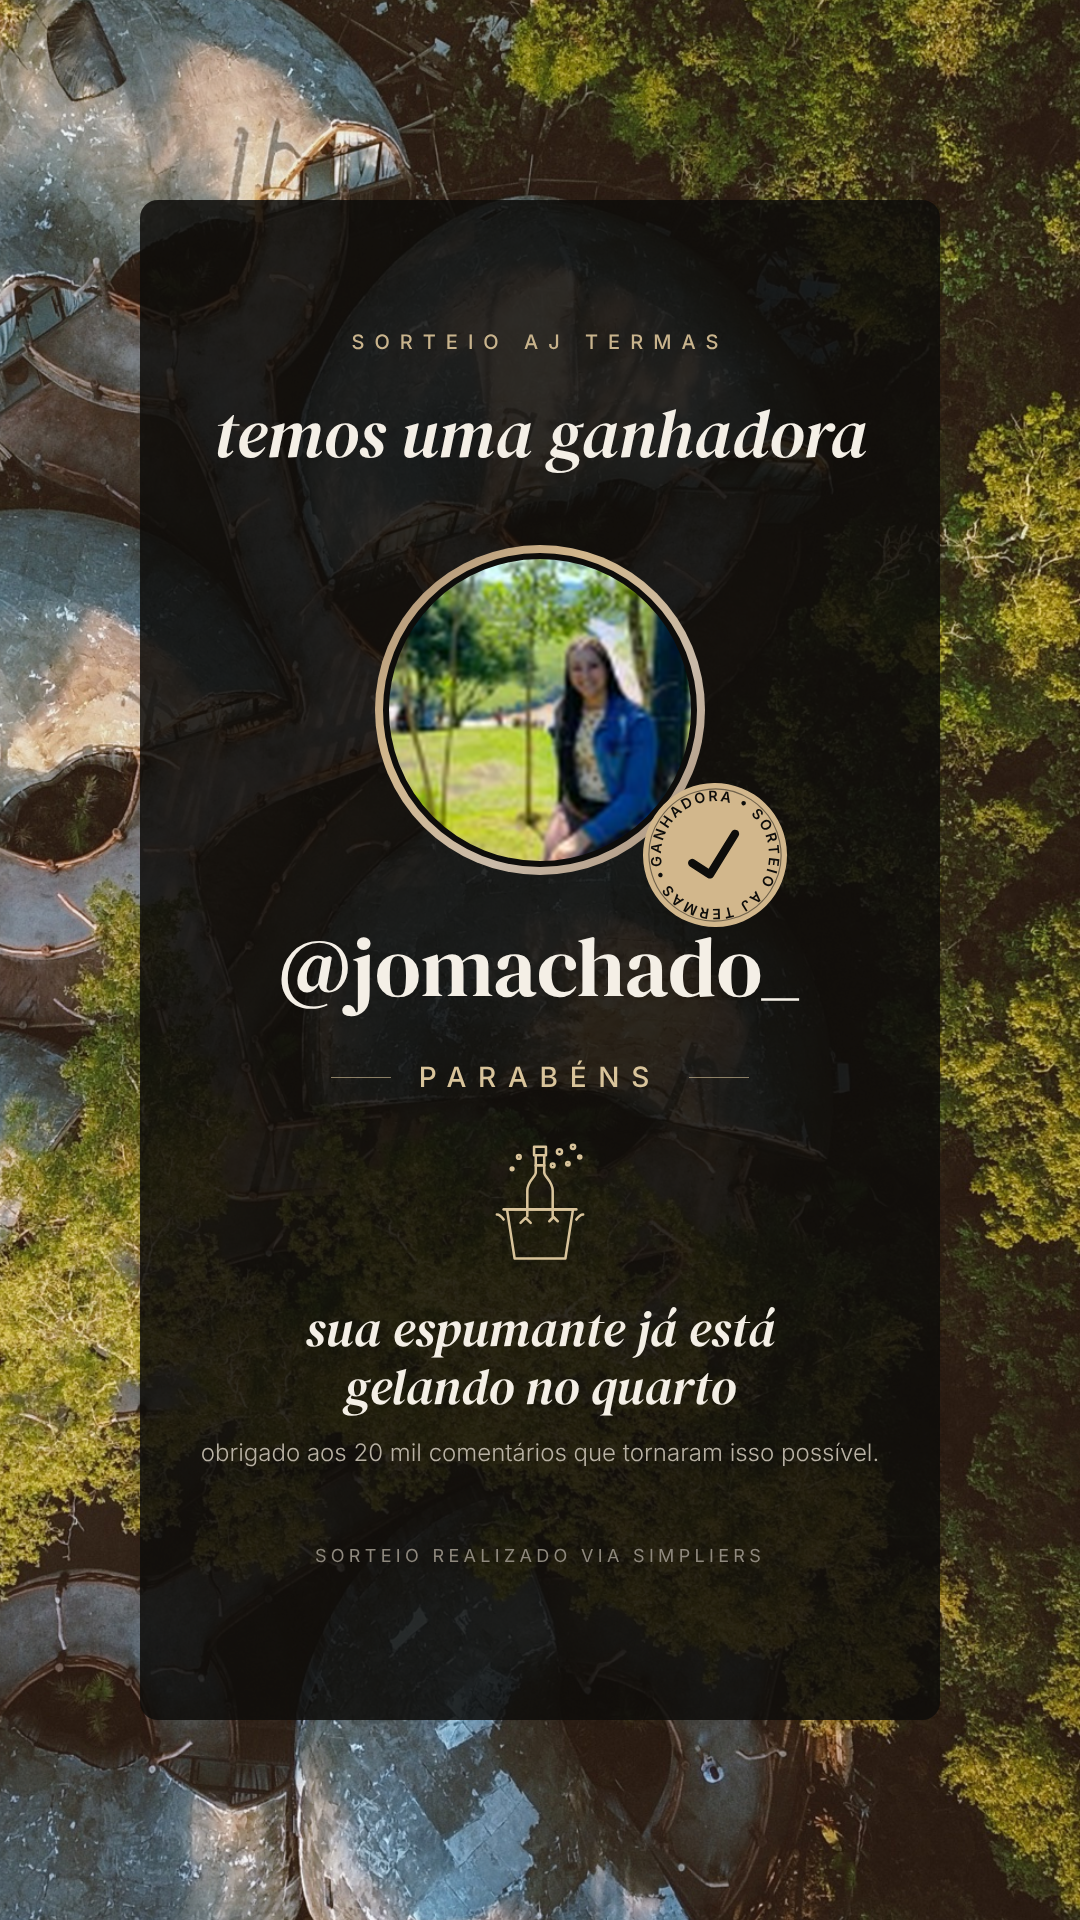
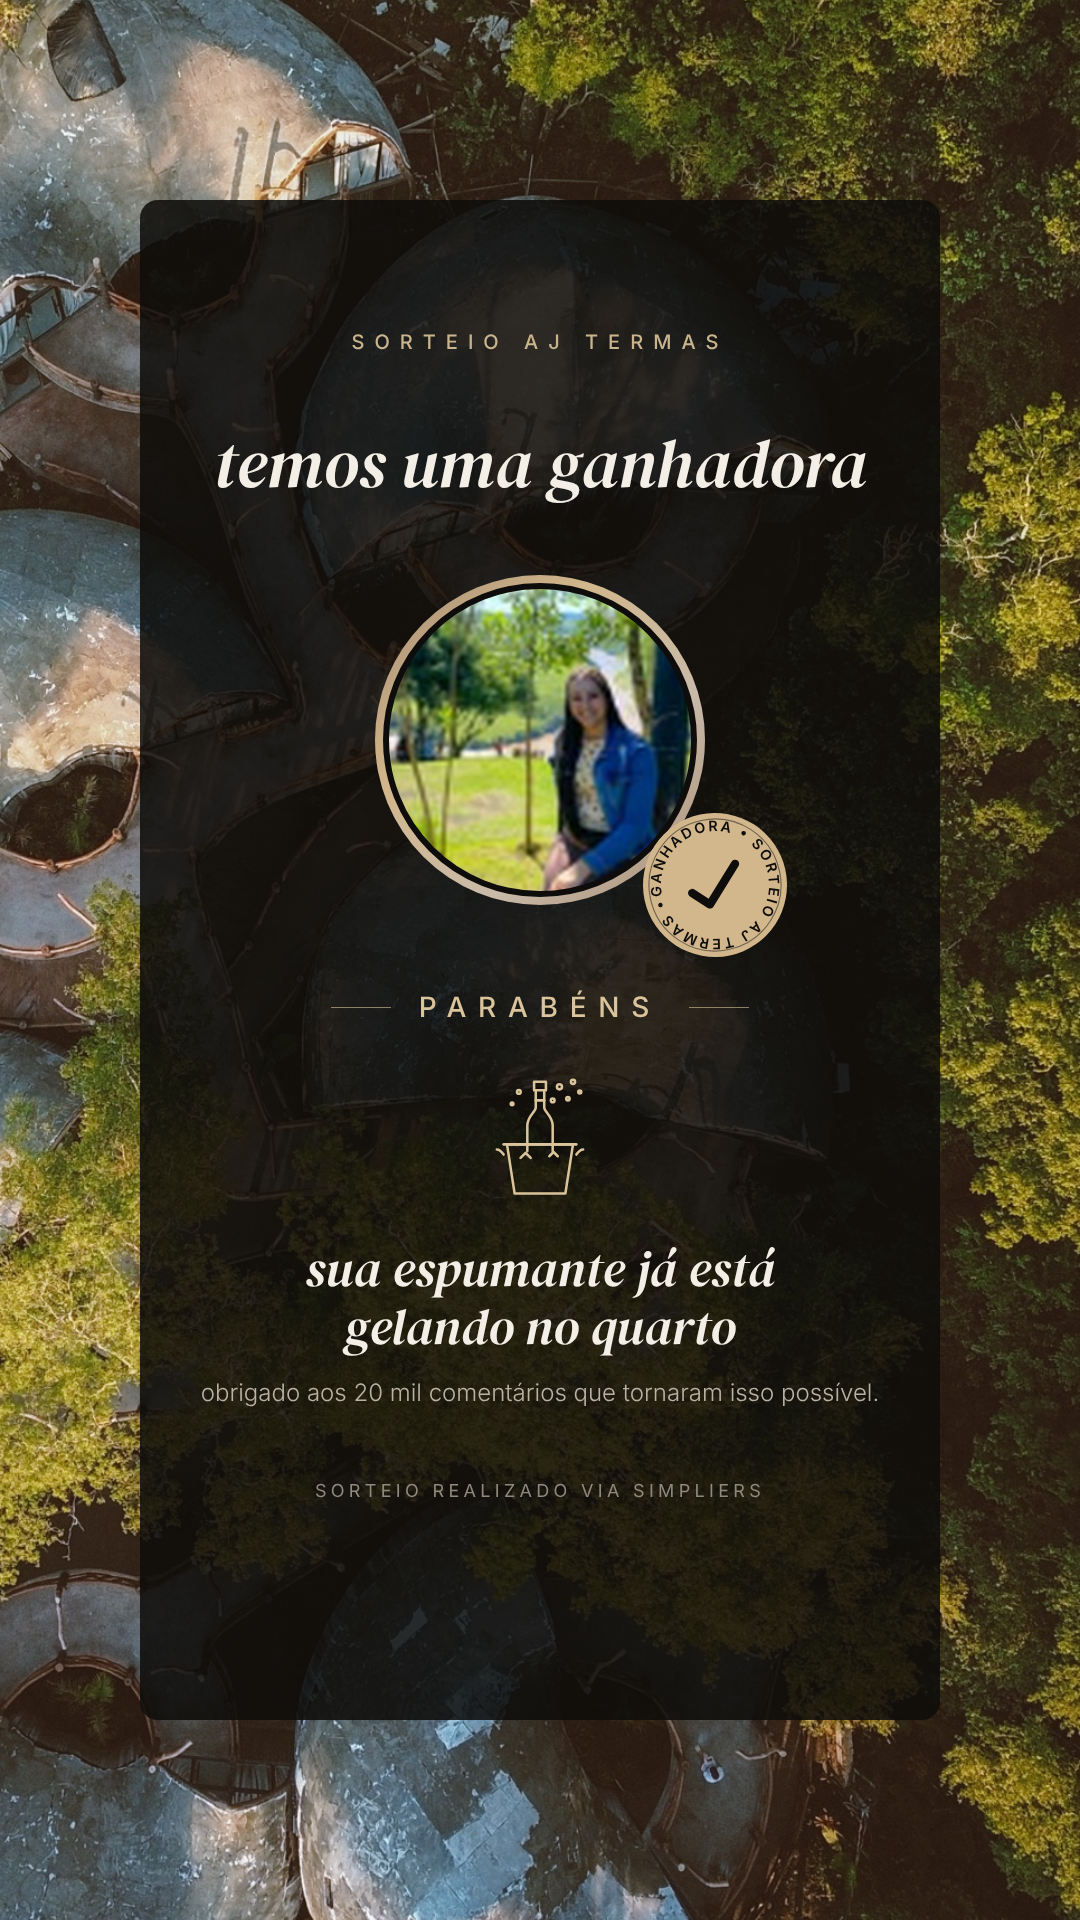
Remove winner handle from stories
Claude-Session: https://claude.ai/code/session_01DGaSmQdzGckXpc8KJwdM3q

Changed region(s): [[0.1833, 0.2188, 0.825, 0.5312], [0.2139, 0.5625, 0.7333, 0.7812]]

diff --git a/criativos/sorteio/conceitos/ganhadora-stories.html b/criativos/sorteio/conceitos/ganhadora-stories.html
@@ -4,17 +4,17 @@
 .panel{position:absolute;inset:200px 140px;background:rgba(14,13,11,.86);border-radius:18px}
 .c{position:absolute;left:0;right:0;text-align:center}
 .k{top:330px;color:#c9b48d;font:500 20px Inter;letter-spacing:.5em}
-.h{top:400px;color:#f4efe6;font:400 italic 68px/1 "DM Serif Display"}
-.av{position:absolute;top:545px;left:50%;width:330px;height:330px;margin-left:-165px;border-radius:50%;padding:8px;background:linear-gradient(135deg,#a68c73,#d2b78c,#c9baa9,#a68c73)}
+.h{top:430px;color:#f4efe6;font:400 italic 68px/1 "DM Serif Display"}
+.av{position:absolute;top:575px;left:50%;width:330px;height:330px;margin-left:-165px;border-radius:50%;padding:8px;background:linear-gradient(135deg,#a68c73,#d2b78c,#c9baa9,#a68c73)}
 .av div{width:100%;height:100%;border-radius:50%;background:url(../../fotos-aj/ganhadora-jomachado.png) 48% 50%/112% auto;border:6px solid #0e0d0b}
-.seal{position:absolute;top:780px;left:640px;width:150px;height:150px;transform:rotate(-12deg)}
+.seal{position:absolute;top:810px;left:640px;width:150px;height:150px;transform:rotate(-12deg)}
 .at{top:925px;color:#f4efe6;font:400 84px/1 "DM Serif Display"}
-.cm{top:1060px;display:flex;align-items:center;justify-content:center;gap:28px;color:#d9c49b;font:500 28px Inter;letter-spacing:.42em}
+.cm{top:990px;display:flex;align-items:center;justify-content:center;gap:28px;color:#d9c49b;font:500 28px Inter;letter-spacing:.42em}
 .cm:before,.cm:after{content:"";width:60px;height:1px;background:#d9c49b;opacity:.6}
-.ic{position:absolute;top:1140px;left:50%;width:110px;margin-left:-55px}
-.t{top:1300px;left:190px;right:190px;color:#f4efe6;font:400 italic 50px/1.15 "DM Serif Display"}
-.sub{top:1435px;color:#b9b2a5;font:300 24px/1.5 Inter}
-.cta{top:1545px;color:#8f897e;font:400 18px Inter;letter-spacing:.24em}
+.ic{position:absolute;top:1075px;left:50%;width:110px;margin-left:-55px}
+.t{top:1240px;left:190px;right:190px;color:#f4efe6;font:400 italic 50px/1.15 "DM Serif Display"}
+.sub{top:1375px;color:#b9b2a5;font:300 24px/1.5 Inter}
+.cta{top:1480px;color:#8f897e;font:400 18px Inter;letter-spacing:.24em}
 </style></head><body><div class="s"><div class="panel"></div>
 <div class="c k">SORTEIO AJ TERMAS</div>
 <div class="c h">temos uma ganhadora</div>
@@ -23,7 +23,6 @@
 <circle cx="100" cy="100" r="96" fill="#d2b78c"/><circle cx="100" cy="100" r="88" fill="none" stroke="#0e0d0b" stroke-width="1.5" opacity=".5"/>
 <text font-family="Inter" font-weight="600" font-size="19" fill="#0e0d0b"><textPath href="#c" textLength="446" lengthAdjust="spacing">GANHADORA • SORTEIO AJ TERMAS •</textPath></text>
 <path d="M68 104l20 20 44-46" fill="none" stroke="#0e0d0b" stroke-width="11" stroke-linecap="round" stroke-linejoin="round"/></svg>
-<div class="c at">@jomachado_</div>
 <div class="c cm">PARABÉNS</div>
 <svg class="ic" viewBox="0 0 130 150" fill="none" stroke="#d9c49b" stroke-width="3" stroke-linecap="round" stroke-linejoin="round">
  <circle cx="88" cy="14" r="3"/><circle cx="98" cy="28" r="2"/><circle cx="80" cy="30" r="2.2"/><circle cx="104" cy="8" r="2.5"/><circle cx="112" cy="20" r="1.8"/><circle cx="40" cy="20" r="2.2"/><circle cx="32" cy="34" r="1.6"/>
